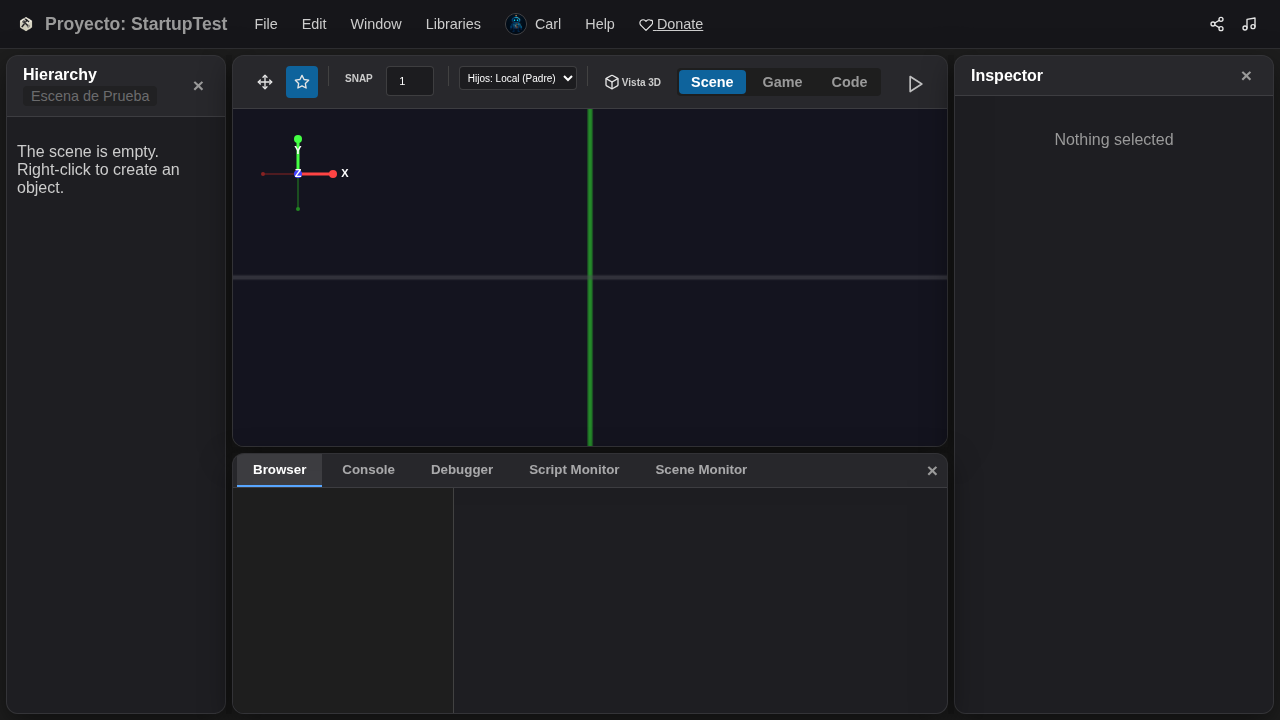
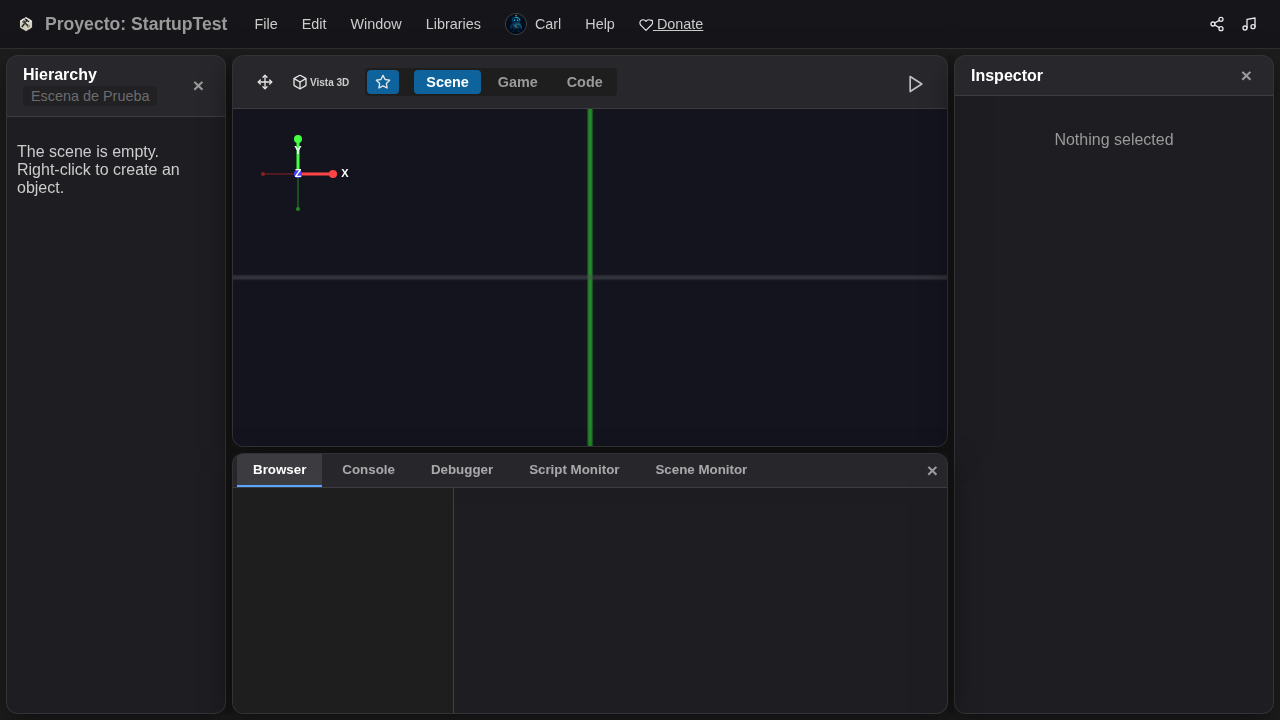
feat: optimize 2d engine child coords, snapping, parallax, and +Y UP rendering
- Moved Snapping toggle and Child Creation Mode select to the Preferences Window to declutter the viewport toolbar
- Simplified Child Creation Mode selector option labels to "Local" and "Global" for better spacing
- Grouped the viewport Gizmo Toggle button inside the view-toggle controls on the right side of the Scene Panel header
- Switched Parallax component to use TextureRender with repeat mode, simplified its properties, and set it to follow a specific target object instead of camera (defaulting to static if unassigned)
- Fixed +Y UP inverted image rendering for SpriteRenderer and TextureRender in both editor and standalone runtime
- Configured 2D scale/resize gizmos to resize TextureRender width/height/radius directly to allow pattern repeating instead of stretching
- Added horizontal scrolling and custom thin scrollbars to the left header controls to prevent overflow cut-offs on small screens

Changed region(s): [[0.2188, 0.0917, 0.625, 0.1528], [0.6562, 0.0917, 0.6875, 0.1222]]

diff --git a/editor.html b/editor.html
@@ -462,28 +462,13 @@ public star() {
                                     <button id="tool-tile-eraser" class="toolbar-btn tilemap-tool" title="Goma de Tiles (N)" data-i18n-title="HERRAMIENTA_GOMA" style="display: none;"><img src="icons/eraser.svg" class="ce-icon"> <span data-i18n="HERRAMIENTA_GOMA">Goma</span></button>
                                 </div>
                             </div>
-                            <button id="btn-toggle-gizmos" class="toolbar-btn active" title="Mostrar/Ocultar Iconos (Audio/Cámara)"><img src="icons/star.svg" class="ce-icon"></button>
-                            <div class="toolbar-separator"></div>
-                            <!-- Snapping Controls -->
-                            <button id="btn-snap-toggle" class="toolbar-btn" title="Activar/Desactivar Ajuste (Snap)" style="padding: 2px 6px; display: inline-flex; align-items: center; justify-content: center; height: 24px;">
-                                <span style="font-size: 10px; font-weight: bold;">SNAP</span>
-                            </button>
-                            <input type="number" id="input-snap-grid-size" value="25" min="1" step="1" title="Tamaño de Ajuste (píxeles)" style="width: 42px; height: 24px; padding: 2px; font-size: 11px; background: rgba(0,0,0,0.3); border: 1px solid rgba(255,255,255,0.15); color: white; border-radius: 4px; text-align: center; margin-left: 2px; margin-right: 4px;">
-
-                            <div class="toolbar-separator"></div>
-                            <!-- Child Creation Mode Selector -->
-                            <select id="select-child-creation-mode" title="Posición de hijos" style="font-size: 10px; padding: 2px 4px; background: rgba(0,0,0,0.3); border: 1px solid rgba(255,255,255,0.15); color: white; border-radius: 4px; cursor: pointer; height: 24px; font-weight: bold;">
-                                <option value="local">Local</option>
-                                <option value="global">Global</option>
-                            </select>
-
-                            <div class="toolbar-separator"></div>
                             <button id="btn-toggle-2d-3d" class="toolbar-btn" title="Alternar 2D/3D (Tecla 2/3)" data-i18n-title="ALTERNAR_2D_3D">
                                 <img id="icon-2d-3d" src="icons/layers.svg" class="ce-icon">
                                 <span id="label-2d-3d" style="font-size: 10px; font-weight: bold; margin-left: 2px;">2D</span>
                             </button>
                         </div>
                         <div class="view-toggle">
+                            <button id="btn-toggle-gizmos" class="toolbar-btn active" title="Mostrar/Ocultar Iconos (Audio/Cámara)" style="margin-right: 10px; height: 24px; padding: 0 4px;"><img src="icons/star.svg" class="ce-icon"></button>
                             <button class="view-toggle-btn active" data-view="scene-content" data-i18n="VISTA_ESCENA">Escena</button>
                             <button class="view-toggle-btn" data-view="game-content" data-i18n="VISTA_JUEGO">Juego</button>
                             <button class="view-toggle-btn" data-view="code-editor-content" data-i18n="VISTA_CODIGO">Código</button>
@@ -1704,6 +1689,12 @@ public star() {
                         <label for="prefs-snapping-grid-size" data-i18n="TAMANO_REJILLA">Tamaño de la rejilla (píxeles)</label>
                         <input type="number" id="prefs-snapping-grid-size" min="1" value="25">
                     </div>
+                    <hr>
+                    <label for="prefs-child-creation-mode">Posición de nuevos hijos (Creación)</label>
+                    <select id="prefs-child-creation-mode" style="width: 100%; padding: 4px; font-size: 13px; background: rgba(0,0,0,0.3); border: 1px solid rgba(255,255,255,0.15); color: white; border-radius: 4px; height: 30px; cursor: pointer;">
+                        <option value="local">Local (Centro del Padre)</option>
+                        <option value="global">Global (Centro del Mundo)</option>
+                    </select>
                     <hr>
                     <label for="prefs-zoom-speed" data-i18n="VELOCIDAD_ZOOM">Velocidad del Zoom</label>
                     <input type="number" id="prefs-zoom-speed" min="1" max="10" step="0.1" value="1.1">

diff --git a/js/editor.js b/js/editor.js
@@ -577,7 +577,7 @@ document.addEventListener('DOMContentLoaded', () => {
             'scene-canvas-3d', 'game-canvas-3d', 'prefs-show-origin-axes', 'prefs-show-orientation-gizmo',
             'prefs-show-see-through-gizmo', 'prefs-show-blue-skeleton-gizmo',
             'prefs-invert-x-axis', 'prefs-invert-y-axis',
-            'btn-snap-toggle', 'input-snap-grid-size', 'select-child-creation-mode'
+            'prefs-child-creation-mode'
         ];
         ids.forEach(id => {
             const camelCaseId = id.replace(/-(\w)/g, (_, c) => c.toUpperCase());
@@ -4537,48 +4537,6 @@ NOTA: Usa "@last" en materiaId o parentId para referirte al ultimo objeto creado
             });
         }
 
-        // --- Snapping & Child Creation Mode Event Listeners ---
-        if (dom.selectChildCreationMode) {
-            window.childCreationMode = dom.selectChildCreationMode.value || 'local';
-            dom.selectChildCreationMode.addEventListener('change', () => {
-                window.childCreationMode = dom.selectChildCreationMode.value;
-                console.log(`[Editor] Modo de creación de hijos cambiado a: ${window.childCreationMode}`);
-            });
-        }
-
-        const initialPrefs = getPreferences();
-        if (dom.btnSnapToggle) {
-            dom.btnSnapToggle.classList.toggle('active', !!initialPrefs.snapping);
-            dom.btnSnapToggle.addEventListener('click', () => {
-                const prefs = getPreferences();
-                prefs.snapping = !prefs.snapping;
-                dom.btnSnapToggle.classList.toggle('active', prefs.snapping);
-                localStorage.setItem('creativeEnginePrefs', JSON.stringify(prefs));
-
-                // Sync with Preferences Modal
-                const modalCheckbox = document.getElementById('prefs-snapping-toggle');
-                if (modalCheckbox) modalCheckbox.checked = prefs.snapping;
-
-                // If the preference window exists, update its local state
-                const prefsToggleGroup = document.getElementById('prefs-snapping-grid-size-group');
-                if (prefsToggleGroup) {
-                    prefsToggleGroup.classList.toggle('hidden', !prefs.snapping);
-                }
-            });
-        }
-
-        if (dom.inputSnapGridSize) {
-            dom.inputSnapGridSize.value = initialPrefs.gridSize || 25;
-            dom.inputSnapGridSize.addEventListener('input', () => {
-                const prefs = getPreferences();
-                prefs.gridSize = parseFloat(dom.inputSnapGridSize.value) || 25;
-                localStorage.setItem('creativeEnginePrefs', JSON.stringify(prefs));
-
-                // Sync with Preferences Modal
-                const modalInput = document.getElementById('prefs-snapping-grid-size');
-                if (modalInput) modalInput.value = prefs.gridSize;
-            });
-        }
     }
 
     function updateAmbientePanelFromScene() {

diff --git a/tests/verify_coordinated_features.spec.js b/tests/verify_coordinated_features.spec.js
@@ -6,31 +6,30 @@ test('Verify quick snapping, child creation toggle, and parallax target features
   // Wait for loading to finish
   await page.waitForSelector('#loading-overlay', { state: 'hidden', timeout: 30000 });
 
-  // 1. Verify Snapping Controls presence and functionality
-  const snapToggle = page.locator('#btn-snap-toggle');
-  await expect(snapToggle).toBeVisible();
+  // 1. Verify Snapping Controls and Gizmo Toggle is present on the right
+  const gizmoToggle = page.locator('.view-toggle #btn-toggle-gizmos');
+  await expect(gizmoToggle).toBeVisible();
 
-  const snapInput = page.locator('#input-snap-grid-size');
-  await expect(snapInput).toBeVisible();
+  // 2. Verify Child Creation Mode Selector and Snapping are in Preferences Window
+  // Let's open Preferences modal to check
+  const prefsBtn = page.locator('button:has-text("Ayuda")'); // Or open preferences via menu/eval
+  await page.evaluate(() => {
+     // Trigger showing preferences modal
+     if (window.PreferencesWindow && window.PreferencesWindow.show) {
+         window.PreferencesWindow.show();
+     } else {
+         document.getElementById('preferences-modal').classList.remove('hidden');
+     }
+  });
 
-  // Click snap toggle and verify active state/sync
-  await snapToggle.click();
-  await expect(snapToggle).toHaveClass(/active/);
-
-  // 2. Verify Child Creation Mode Selector presence and toggling
-  const childModeSelector = page.locator('#select-child-creation-mode');
+  const childModeSelector = page.locator('#prefs-child-creation-mode');
   await expect(childModeSelector).toBeVisible();
   await expect(childModeSelector).toHaveValue('local');
 
   await childModeSelector.selectOption('global');
   await expect(childModeSelector).toHaveValue('global');
 
-  // Verify window global state updated
-  const globalMode = await page.evaluate(() => window.childCreationMode);
-  expect(globalMode).toBe('global');
-
   // 3. Verify Parallax and TextureRender creation
-  // Let's create a parallax object using page.evaluate to simulate creation
   await page.evaluate(() => {
     const parent = null;
     const mtr = window.MateriaFactory.createBaseMateria('ParallaxTest', parent, false, true);

diff --git a/js/editor/ui/PreferencesWindow.js b/js/editor/ui/PreferencesWindow.js
@@ -30,6 +30,7 @@ const defaultPrefs = {
     invertYAxis: false,
     snapping: false,
     gridSize: 1,
+    childCreationMode: 'local',
     zoomSpeed: 1.1,
     ai: {
         provider: 'huggingface'
@@ -159,6 +160,9 @@ function applyPreferences() {
     if (inputSnapGridSize) {
         inputSnapGridSize.value = currentPreferences.gridSize || 25;
     }
+
+    // Set window child creation mode
+    window.childCreationMode = currentPreferences.childCreationMode || 'local';
 }
 
 async function savePreferences() {
@@ -185,6 +189,7 @@ async function savePreferences() {
     currentPreferences.invertYAxis = _dom.prefsInvertYAxis.checked;
     currentPreferences.snapping = _dom.prefsSnappingToggle.checked;
     currentPreferences.gridSize = _dom.prefsSnappingGridSize.value;
+    currentPreferences.childCreationMode = _dom.prefsChildCreationMode.value || 'local';
     currentPreferences.zoomSpeed = parseFloat(_dom.prefsZoomSpeed.value) || 1.1;
     currentPreferences.ai.provider = _dom.prefsAiProvider.value;
     currentPreferences.ai.model = _dom.prefsAiModelSelector ? _dom.prefsAiModelSelector.value : null;
@@ -265,6 +270,7 @@ function loadPreferences() {
     if (_dom.prefsInvertYAxis) _dom.prefsInvertYAxis.checked = !!currentPreferences.invertYAxis;
     if (_dom.prefsSnappingToggle) _dom.prefsSnappingToggle.checked = currentPreferences.snapping;
     if (_dom.prefsSnappingGridSize) _dom.prefsSnappingGridSize.value = currentPreferences.gridSize;
+    if (_dom.prefsChildCreationMode) _dom.prefsChildCreationMode.value = currentPreferences.childCreationMode || 'local';
     if (_dom.prefsZoomSpeed) _dom.prefsZoomSpeed.value = currentPreferences.zoomSpeed;
     if (_dom.prefsAiProvider) _dom.prefsAiProvider.value = currentPreferences.ai.provider;
 
